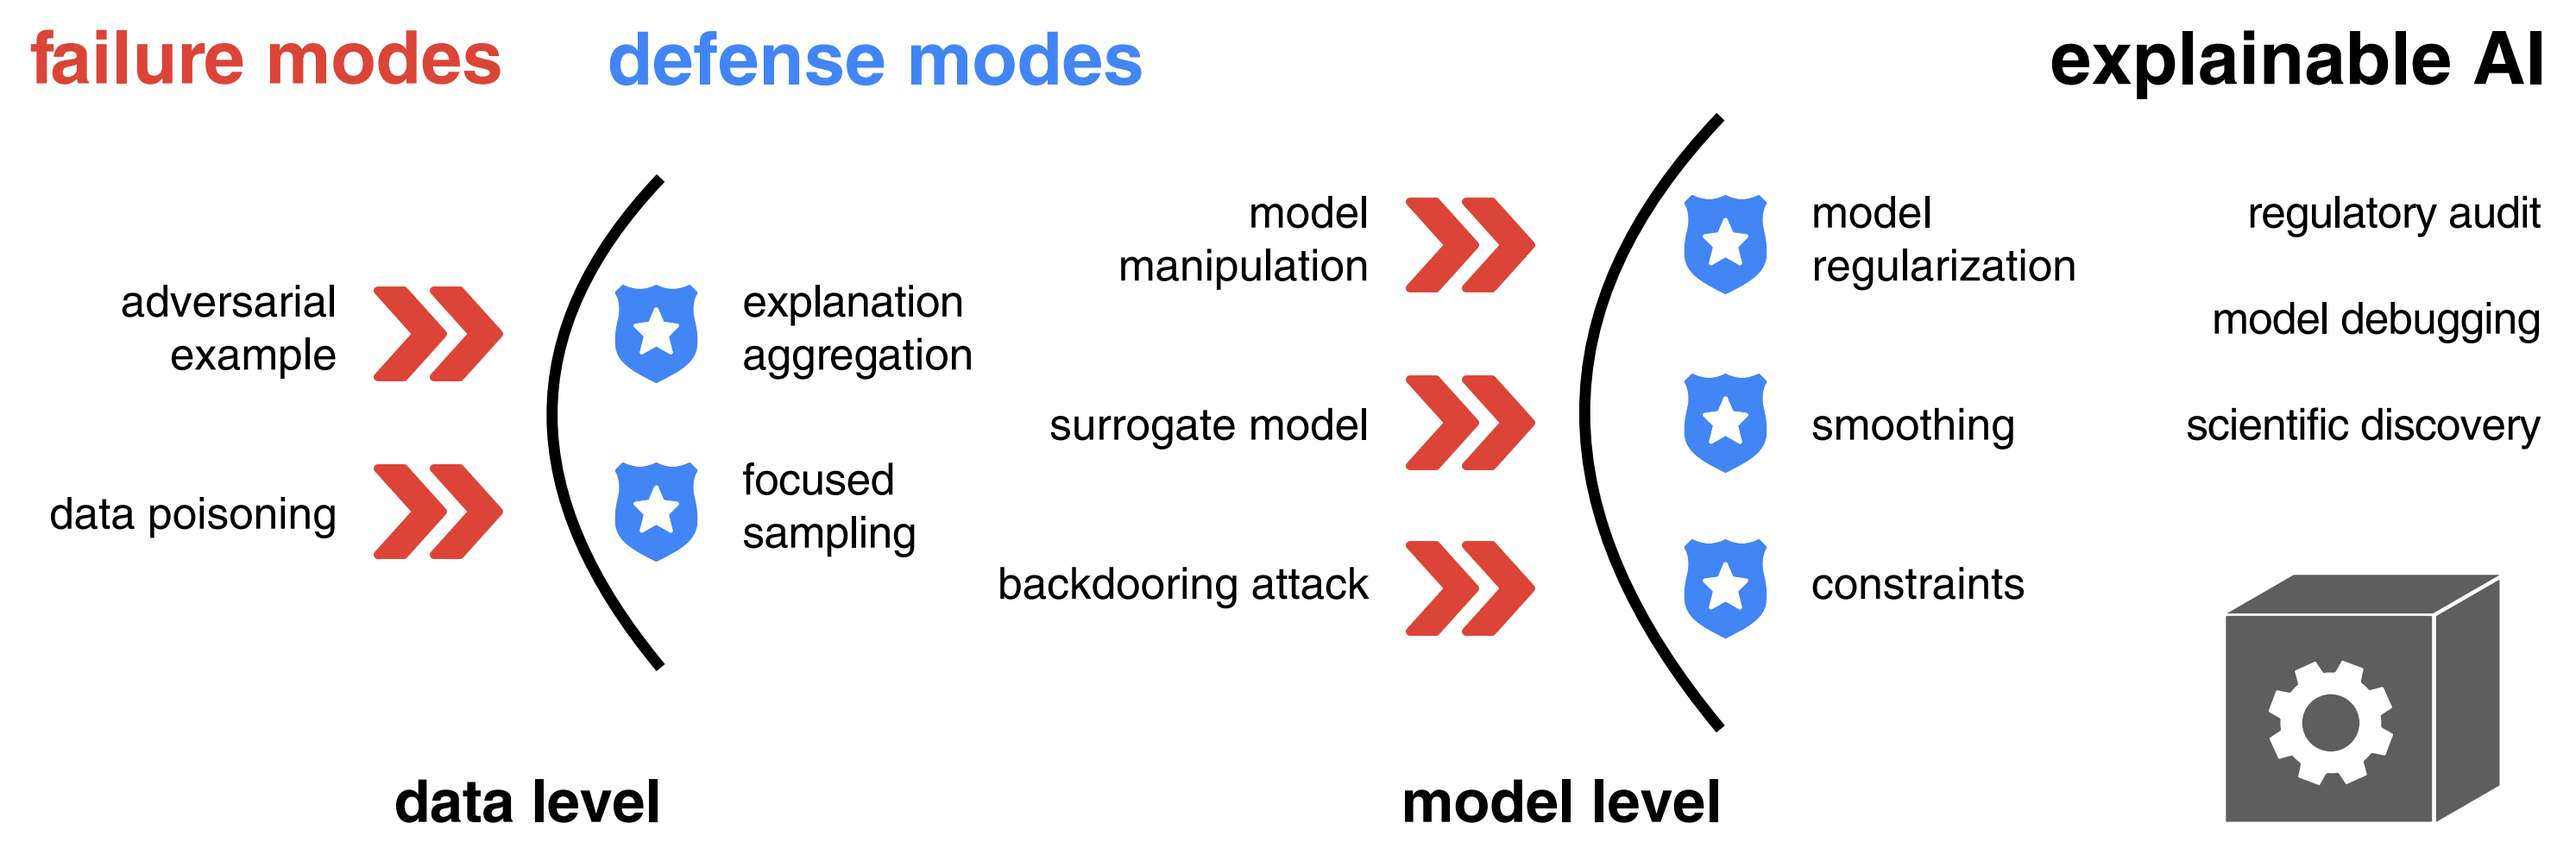
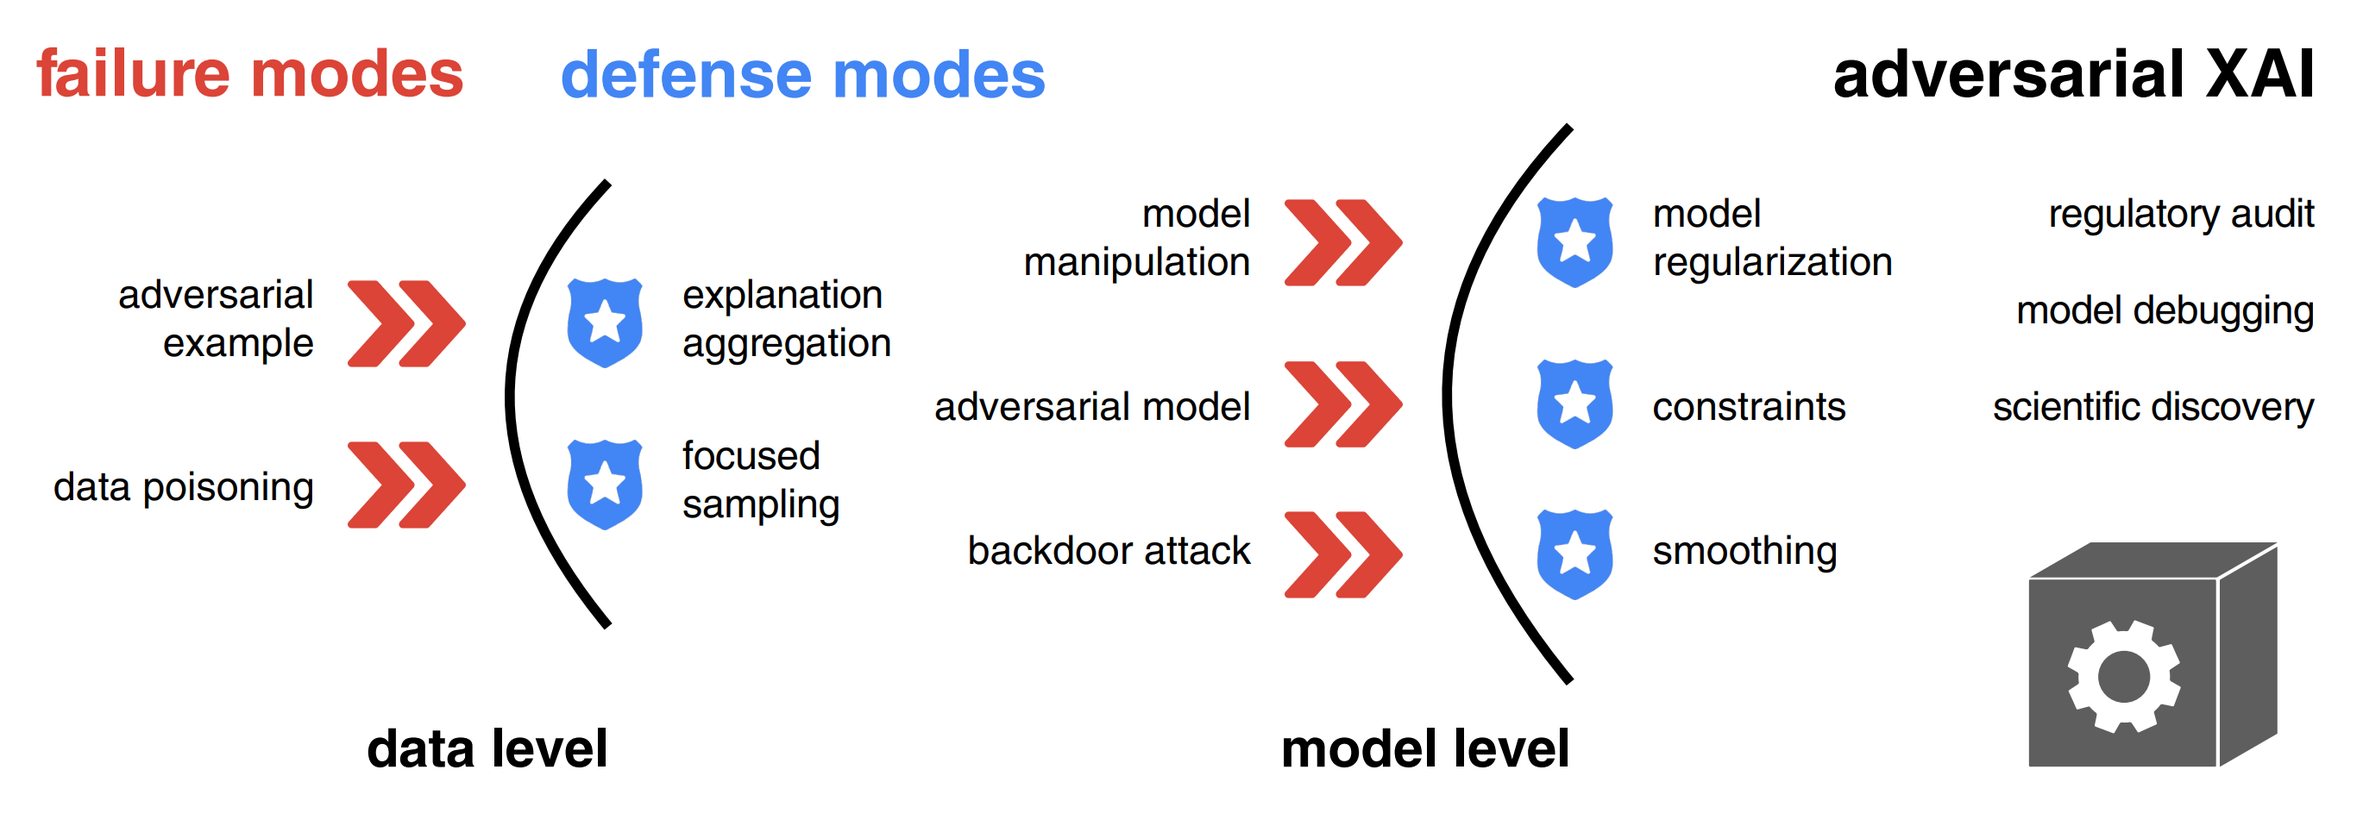
update arxiv v2

diff --git a/README.md b/README.md
@@ -7,6 +7,8 @@ A curated list of papers concerning adversarial explainable AI (AdvXAI).
 
 ### Survey
 
+**September, 2023**: An extended version of the paper is available on arXiv: https://arxiv.org/abs/2306.06123v2
+
 **June, 2023**: We summarized the current state of the AdvXAI field in the following survey paper (work in progress)
 
 > H. Baniecki, P. Biecek.  **Adversarial Attacks and Defenses in Explainable Artificial Intelligence: A Survey**. *IJCAI Workshop on XAI*, 2023. https://arxiv.org/abs/2306.06123v1
@@ -20,7 +22,7 @@ A curated list of papers concerning adversarial explainable AI (AdvXAI).
   </a>
 </p> 
 
-> Explainable artificial intelligence (XAI) methods are portrayed as a remedy for debugging and trusting statistical and deep learning models, as well as interpreting their predictions. However, recent advances in adversarial machine learning highlight the limitations and vulnerabilities of state-of-the-art explanations, putting their security and trustworthiness into question. The possibility of manipulating, fooling or fairwashing evidence of the model's reasoning has detrimental consequences when applied in high-stakes decision-making and knowledge discovery. This concise survey of over 50 papers summarizes research concerning adversarial attacks on explanations of machine learning models, as well as fairness metrics. We discuss how to defend against attacks and design robust interpretation methods. We contribute a list of existing insecurities in XAI and outline the emerging research directions in adversarial XAI (AdvXAI).
+> Explainable artificial intelligence (XAI) methods are portrayed as a remedy for debugging and trusting statistical and deep learning models, as well as interpreting their predictions. However, recent advances in adversarial machine learning (AdvML) highlight the limitations and vulnerabilities of state-of-the-art explanation methods, putting their security and trustworthiness into question. The possibility of manipulating, fooling or fairwashing evidence of the model's reasoning has detrimental consequences when applied in high-stakes decision-making and knowledge discovery. This survey provides a comprehensive overview of research concerning adversarial attacks on explanations of machine learning models, as well as fairness metrics. We introduce a unified notation and taxonomy of methods facilitating a common ground for researchers and practitioners from the intersecting research fields of AdvML and XAI. We discuss how to defend against attacks and design robust interpretation methods. We contribute a list of existing insecurities in XAI and outline the emerging research directions in adversarial XAI (AdvXAI). Future work should address improving explanation methods and evaluation protocols to take into account the reported safety issues.
 
 
 ### Citation
